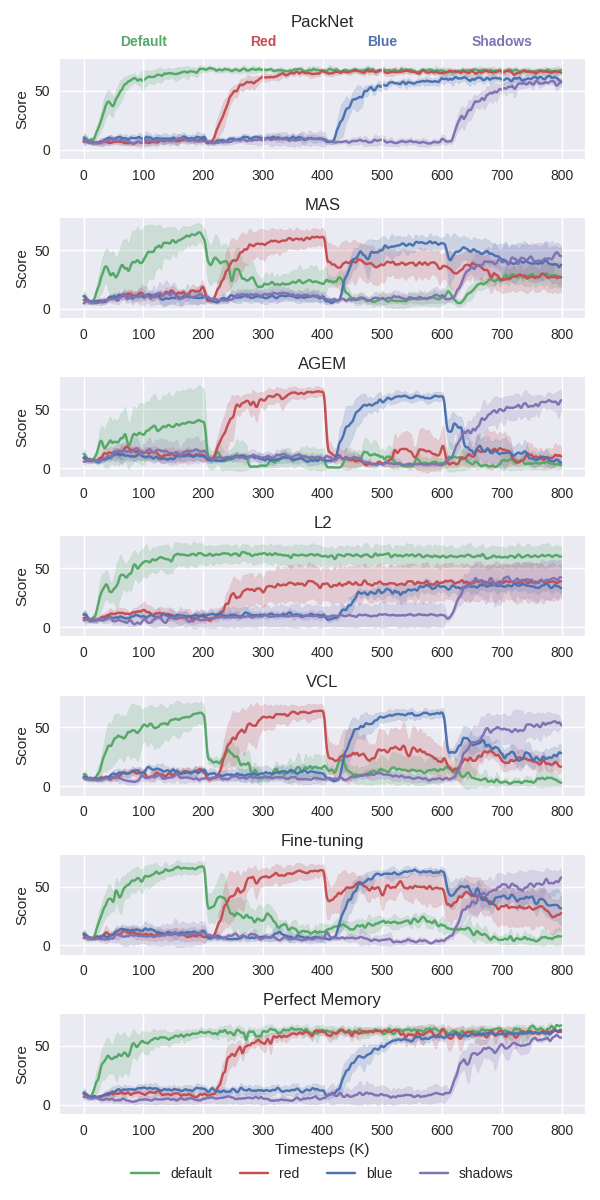
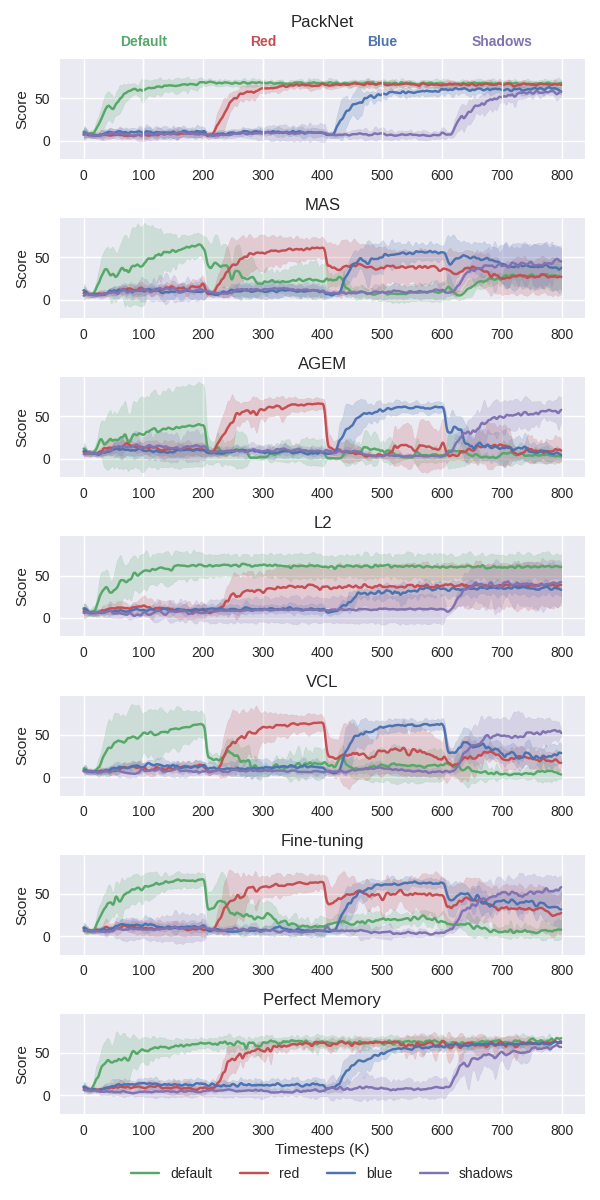
Fixed CI calculation

diff --git a/coom/sac/sac.py b/coom/sac/sac.py
@@ -1,3 +1,7 @@
+from threading import Thread
+
+import functools
+
 import math
 import numpy as np
 import os
@@ -154,9 +158,7 @@ class SAC:
         self.experiment_dir = experiment_dir
         self.model_path = model_path
         self.timestamp = timestamp
-
-        self.test_threads_deterministic = []
-        self.test_threads_stochastic = []
+        self.test_threads = []
 
         self.use_popart = critic_cl is PopArtMlpCritic
 
@@ -442,36 +444,67 @@ class SAC:
         ):
             target_v.assign(self.polyak * target_v + (1 - self.polyak) * v)
 
-    def test_agent(self, deterministic, num_episodes) -> None:
+    def test_agent(self, seq_idx, test_env, deterministic, num_episodes) -> None:
+        start_time = time.time()
         mode = "deterministic" if deterministic else "stochastic"
-        for seq_idx, test_env in enumerate(self.test_envs):
-            start_time = time.time()
-            key_prefix = f"test/{mode}/{seq_idx}/{test_env.name}"
-            one_hot_vec = create_one_hot_vec(test_env.num_tasks, test_env.task_id)
+        key_prefix = f"test/{mode}/{seq_idx}/{test_env.name}"
+        one_hot_vec = create_one_hot_vec(test_env.num_tasks, test_env.task_id)
 
-            self.on_test_start(seq_idx)
+        self.on_test_start(seq_idx)
 
-            for j in range(num_episodes):
-                obs, _ = test_env.reset()
-                done, episode_return, episode_len = False, 0, 0
-                while not done:
-                    obs, reward, done, _, _ = test_env.step(
-                        self.get_action_test(tf.convert_to_tensor(obs),
-                                             tf.convert_to_tensor(one_hot_vec, dtype=tf.dtypes.float32),
-                                             tf.constant(deterministic))
-                    )
-                    episode_return += reward
-                    episode_len += 1
-                self.logger.store({key_prefix + "/return": episode_return, key_prefix + "/ep_length": episode_len})
-                self.logger.store(test_env.get_statistics(key_prefix))
+        for j in range(num_episodes):
+            obs, _ = test_env.reset()
+            done, episode_return, episode_len = False, 0, 0
+            while not done:
+                obs, reward, done, _, _ = test_env.step(
+                    self.get_action_test(tf.convert_to_tensor(obs),
+                                         tf.convert_to_tensor(one_hot_vec, dtype=tf.dtypes.float32),
+                                         tf.constant(deterministic))
+                )
+                episode_return += reward
+                episode_len += 1
+            self.logger.store({key_prefix + "/return": episode_return, key_prefix + "/ep_length": episode_len})
+            self.logger.store(test_env.get_statistics(key_prefix))
 
-            self.on_test_end(seq_idx)
-            print(f"Finished testing {key_prefix} in {time.time() - start_time:.2f} seconds")
+        print(f"Finished testing {key_prefix} in {time.time() - start_time:.2f} seconds")
 
-            self.logger.log_tabular(key_prefix + "/return", with_min_and_max=True)
-            self.logger.log_tabular(key_prefix + "/ep_length", average_only=True)
-            for stat in test_env.get_statistics(key_prefix).keys():
-                self.logger.log_tabular(stat, average_only=True)
+        self.on_test_end(seq_idx)
+
+        self.logger.log_tabular(key_prefix + "/return", with_min_and_max=True)
+        self.logger.log_tabular(key_prefix + "/ep_length", average_only=True)
+        for stat in test_env.get_statistics(key_prefix).keys():
+            self.logger.log_tabular(stat, average_only=True)
+
+    # def test_agent(self, deterministic, num_episodes) -> None:
+    #     start_time = time.time()
+    #     mode = "deterministic" if deterministic else "stochastic"
+    #     for seq_idx, test_env in enumerate(self.test_envs):
+    #         key_prefix = f"test/{mode}/{seq_idx}/{test_env.name}"
+    #         one_hot_vec = create_one_hot_vec(test_env.num_tasks, test_env.task_id)
+    #
+    #         self.on_test_start(seq_idx)
+    #
+    #         for j in range(num_episodes):
+    #             obs, _ = test_env.reset()
+    #             done, episode_return, episode_len = False, 0, 0
+    #             while not done:
+    #                 obs, reward, done, _, _ = test_env.step(
+    #                     self.get_action_test(tf.convert_to_tensor(obs),
+    #                                          tf.convert_to_tensor(one_hot_vec, dtype=tf.dtypes.float32),
+    #                                          tf.constant(deterministic))
+    #                 )
+    #                 episode_return += reward
+    #                 episode_len += 1
+    #             self.logger.store({key_prefix + "/return": episode_return, key_prefix + "/ep_length": episode_len})
+    #             self.logger.store(test_env.get_statistics(key_prefix))
+    #
+    #         self.on_test_end(seq_idx)
+    #         print(f"Finished testing {key_prefix} in {time.time() - start_time:.2f} seconds")
+    #
+    #         self.logger.log_tabular(key_prefix + "/return", with_min_and_max=True)
+    #         self.logger.log_tabular(key_prefix + "/ep_length", average_only=True)
+    #         for stat in test_env.get_statistics(key_prefix).keys():
+    #             self.logger.log_tabular(stat, average_only=True)
 
     def _log_after_update(self, results):
         self.logger.store(
@@ -694,31 +727,27 @@ class SAC:
 
                 # Test the model on each task in a separate thread
                 test_start_time = time.time()
-                # for thread in self.test_threads_stochastic + self.test_threads_deterministic:
-                #     if thread.is_alive():
-                #         print(f'Thread {thread}({thread._target.args[1].unwrapped.name}) is still alive. Joining it.')
-                #         thread.join()
+                for thread in self.test_threads:
+                    if thread.is_alive():
+                        print(f'Thread {thread}({thread._target.args[1].unwrapped.name}) is still alive. Joining it.')
+                        thread.join()
 
-                # print("Creating new testing threads after: ", time.time() - test_start_time)
-
-                # Test the performance of stochastic and deterministic version of the agent.
-                # self.test_threads_stochastic = [
-                #     Thread(target=functools.partial(self.test_agent, seq_idx, test_env, False,
-                #                                     self.num_test_eps_stochastic)) for seq_idx, test_env in
-                #     enumerate(self.test_envs_stoch)]
-                #
-                # self.test_threads_deterministic = [
-                #     Thread(target=functools.partial(self.test_agent, seq_idx, test_env, True,
-                #                                     self.num_test_eps_deterministic)) for seq_idx, test_env in
-                #     enumerate(self.test_envs_det)]
-                #
-                # for test_thread in self.test_threads_stochastic + self.test_threads_deterministic:
-                #     test_thread.start()
+                print("Creating new testing threads after: ", time.time() - test_start_time)
 
                 # Test the performance of stochastic and deterministic version of the agent.
-                if self.test:
-                    self.test_agent(deterministic=False, num_episodes=self.num_test_eps_stochastic)
-                    print("Time elapsed for the testing procedure: ", time.time() - test_start_time)
+                self.test_threads = [
+                    Thread(target=functools.partial(self.test_agent, seq_idx, test_env, False,
+                                                    self.num_test_eps_stochastic)) for seq_idx, test_env in
+                    enumerate(self.test_envs)]
+
+                for test_thread in self.test_threads:
+                    test_thread.start()
+                print("Time elapsed for the testing procedure: ", time.time() - test_start_time)
+
+                # Test the performance of stochastic and deterministic version of the agent.
+                # if self.test:
+                #     self.test_agent(deterministic=False, num_episodes=self.num_test_eps_stochastic)
+                #     print("Time elapsed for the testing procedure: ", time.time() - test_start_time)
 
                 # Determine the current learning rate of the optimizer
                 lr = self.optimizer.lr

diff --git a/experiments/results/cl_metrics.py b/experiments/results/cl_metrics.py
@@ -1,5 +1,6 @@
-from typing import Dict
+from typing import Dict, List
 
+from scipy.stats import t
 import os
 
 import json
@@ -183,11 +184,14 @@ def calculate_forgetting(data: np.ndarray):
     return data_at_the_end, forgetting
 
 
-def main(args: argparse.Namespace) -> None:
-    seeds = ['1', '2', '3']
-    sequence = args.sequence
-    metric = args.metric
-    task_length = args.task_length
+def calculate_performance(data: np.ndarray):
+    data = data.mean(axis=3)
+    data = np.triu(data)
+    data[data == 0] = np.nan
+    return np.nanmean(data, axis=(-1, -2))
+
+
+def calc_metrics(metric, seeds, sequence, task_length):
     envs = SEQUENCES[sequence]
     n_envs = len(envs)
     iterations = n_envs * task_length
@@ -196,6 +200,8 @@ def main(args: argparse.Namespace) -> None:
     ci_data = np.empty((len(methods), n_envs, n_envs, task_length))
     cl_data[:] = np.nan
     ci_data[:] = np.nan
+    dof = len(seeds) - 1
+    significance = (1 - args.confidence) / 2
     for i, method in enumerate(methods):
         for j, env in enumerate(envs):
             seed_data = np.empty((len(seeds), n_envs, task_length))
@@ -210,29 +216,54 @@ def main(args: argparse.Namespace) -> None:
                 data = np.pad(data, (0, iterations - steps), 'constant', constant_values=np.nan)
                 data_per_task = np.array_split(data, n_envs)
                 seed_data[k] = data_per_task
-                # print(f'{method}_{env}_{seed}: {len(steps)}')
 
-            y = np.nanmean(seed_data, axis=0)
-            ci = np.nanstd(seed_data, axis=0)
-            cl_data[i][j] = y
+            mean = np.nanmean(seed_data, axis=0)
+            std = np.nanstd(seed_data, axis=0)
+            t_crit = np.abs(t.ppf(significance, dof))
+            ci = std * t_crit / np.sqrt(len(seeds))
+            cl_data[i][j] = mean
             ci_data[i][j] = ci
+    performance = calculate_performance(cl_data)
+    performance_ci = calculate_performance(ci_data)
     data_at_the_end, forgetting = calculate_forgetting(cl_data)
-    _, ci_forget = calculate_forgetting(ci_data)
-    # Join mean and std and normalize results
-    joined_results = np.array((forgetting, ci_forget))
-    joined_results = joined_results / np.linalg.norm(joined_results)
-    # Print results
+    _, forgetting_ci = calculate_forgetting(ci_data)
+    # Print performance results
+    print(f'\n\n{sequence}')
+    print_results(performance, performance_ci, methods, "Performance")
+    print_results(forgetting, forgetting_ci, methods, "Forgetting")
+
+    return performance, performance_ci, forgetting, forgetting_ci
+
+
+def print_results(metric_data: np.ndarray, ci: np.ndarray, methods: List[str], metric: str):
+    print(f'\n{"Method":<20}{metric:<20}{"CI":<20}')
     for i, method in enumerate(methods):
-        forget = joined_results[0][i]
-        ci = joined_results[1][i]
-        print(f'{method}: {forget :.2f} ({ci :.2f})')
+        print(f'{method:<20}{metric_data[i]:<20.2f}{ci[i]:.2f}')
+
+
+def normalize(metric_data, ci):
+    joined_results = np.array((metric_data, ci))
+    joined_results = joined_results / np.linalg.norm(joined_results)
+    return joined_results
+
+
+def main(cfg: argparse.Namespace) -> None:
+    performances, forgets = [], []
+    for sequence in cfg.sequences:
+        performance, forget = calc_metrics(cfg.metric, cfg.seeds, sequence, cfg.task_length)
+        performances.append(performance)
+        forgets.append(forget)
+    print(f'\n\nAverage')
+    print(f'\n{"Method":<20}{"Performance":<20}{"CI":<20}')
 
 
 def parse_args() -> argparse.Namespace:
     parser = argparse.ArgumentParser()
-    parser.add_argument("--sequence", type=str, required=True, choices=['CD4', 'CO4', 'CD8', 'CO8'],
-                        help="Name of the task sequence")
+    parser.add_argument("--sequences", type=str, nargs="+", required=True, choices=['CD4', 'CO4', 'CD8', 'CO8', 'COC'],
+                        help="Sequences to evaluate")
+    parser.add_argument("--seeds", type=str, nargs="+", default=['1', '2', '3'], help="Seeds to evaluate")
     parser.add_argument("--metric", type=str, default='success', help="Name of the metric to calculate forgetting")
+    parser.add_argument("--confidence", type=float, default=0.9, help="Confidence interval")
     parser.add_argument("--task_length", type=int, default=200, help="Number of iterations x 1000 per task")
     parser.add_argument("--output_path", type=str, default="results")
     return parser.parse_args()

diff --git a/experiments/results/plot_results_methods.py b/experiments/results/plot_results_methods.py
@@ -4,6 +4,7 @@ import numpy as np
 import os
 from matplotlib import pyplot as plt
 from scipy.ndimage import gaussian_filter1d
+from scipy.stats import t
 
 TRANSLATIONS = {
     'packnet': 'PackNet',
@@ -54,16 +55,18 @@ def main(args: argparse.Namespace) -> None:
     colors = COLORS_DEFAULT if args.sequence in ['CO4', 'CO8'] else COLORS_ENVS
     seeds = ['1', '2', '3']
     cl_data = {}
-    methods = METHODS if args.sequence in ['CO4', 'CD4'] else METHODS[:-1]
     sequence = args.sequence
     metric = args.metric
     envs = SEQUENCES[sequence]
     n_envs = len(envs)
+    methods = METHODS if n_envs == 4 else METHODS[:-1]
     figsize = (6, 12) if n_envs == 4 else (9, 13)
     fig, ax = plt.subplots(len(methods), 1, sharey=True, sharex=True, figsize=figsize)
     env_names = [TRANSLATIONS[e] for e in envs]
     max_steps = -np.inf
-    iterations = 800 if sequence in ['CD4', 'CO4'] else 1600
+    iterations = args.task_length * n_envs
+    dof = len(seeds) - 1
+    significance = (1 - args.confidence) / 2
 
     for i, method in enumerate(methods):
         for j, env in enumerate(envs):
@@ -75,22 +78,22 @@ def main(args: argparse.Namespace) -> None:
                     continue
                 with open(path, 'r') as f:
                     data = json.load(f)
-                # max_steps = max(max_steps, len(data))
                 cl_data[f'{method}_{env}'] = data
                 steps = len(data)
                 max_steps = max(max_steps, steps)
                 seed_data[k, np.arange(steps)] = data
-                # print(f'{method}_{env}_{seed}: {len(steps)}')
 
-            y = np.nanmean(seed_data, axis=0)
-            y = gaussian_filter1d(y, sigma=2)
-            ci = np.nanstd(seed_data, axis=0)
-            ci = gaussian_filter1d(ci, sigma=2)
-            ax[i].plot(y, label=env, color=colors[j])
-            # ax[i].plot(y, label=env)
+            mean = np.nanmean(seed_data, axis=0)
+            mean = gaussian_filter1d(mean, sigma=2)
+            std = np.nanstd(seed_data, axis=0)
+            std = gaussian_filter1d(std, sigma=2)
+
+            t_crit = np.abs(t.ppf(significance, dof))
+            ci = std * t_crit / np.sqrt(len(seeds))
+
+            ax[i].plot(mean, label=env, color=colors[j])
             ax[i].tick_params(labelbottom=True)
-            ax[i].fill_between(np.arange(iterations), y - ci, y + ci, alpha=0.2, color=colors[j])
-            # print(f'{method}_{env} nan count: {np.isnan(y).sum()}')
+            ax[i].fill_between(np.arange(iterations), mean - ci, mean + ci, alpha=0.2, color=colors[j])
 
         ax[i].set_ylabel(TRANSLATIONS[metric])
         ax[i].set_title(TRANSLATIONS[method])
@@ -125,6 +128,8 @@ def parse_args() -> argparse.Namespace:
     parser.add_argument("--sequence", type=str, required=True, choices=['CD4', 'CO4', 'CD8', 'CO8'],
                         help="Name of the task sequence")
     parser.add_argument("--metric", type=str, default='success', help="Name of the metric to plot")
+    parser.add_argument("--confidence", type=float, default=0.9, help="Confidence interval")
+    parser.add_argument("--task_length", type=int, default=200, help="Number of iterations x 1000 per task")
     parser.add_argument("--output_path", type=str, default="results")
     return parser.parse_args()
 

diff --git a/experiments/results/plot_results_envs.py b/experiments/results/plot_results_envs.py
@@ -4,6 +4,7 @@ import numpy as np
 import os
 from matplotlib import pyplot as plt
 from scipy.ndimage import gaussian_filter1d
+from scipy.stats import t
 
 TRANSLATIONS = {
     'packnet': 'PackNet',
@@ -75,8 +76,10 @@ def main(args: argparse.Namespace) -> None:
     figsize = (6, 7) if n_envs == 4 else (7, 13)
     fig, ax = plt.subplots(n_envs, 1, sharex=True, figsize=figsize)
     max_steps = -np.inf
-    iterations = 800 if n_envs == 4 else 1600
+    iterations = args.task_length * n_envs
     methods = METHODS if n_envs == 4 else METHODS[:-1]
+    dof = len(seeds) - 1
+    significance = (1 - args.confidence) / 2
 
     for i, env in enumerate(envs):
         for j, method in enumerate(methods):
@@ -96,14 +99,17 @@ def main(args: argparse.Namespace) -> None:
                 seed_data[k, np.arange(steps)] = data
                 # print(f'{method}_{env}_{seed}: {len(steps)}')
 
-            y = np.nanmean(seed_data, axis=0)
-            y = gaussian_filter1d(y, sigma=2)
-            ci = np.nanstd(seed_data, axis=0)
-            ci = gaussian_filter1d(ci, sigma=2)
-            ax[i].plot(y, label=TRANSLATIONS[method], color=PLOT_COLORS[j])
+            mean = np.nanmean(seed_data, axis=0)
+            mean = gaussian_filter1d(mean, sigma=2)
+            std = np.nanstd(seed_data, axis=0)
+            std = gaussian_filter1d(std, sigma=2)
+
+            t_crit = np.abs(t.ppf(significance, dof))
+            ci = std * t_crit / np.sqrt(len(seeds))
+
+            ax[i].plot(mean, label=TRANSLATIONS[method], color=PLOT_COLORS[j])
             ax[i].tick_params(labelbottom=True)
-            ax[i].fill_between(np.arange(iterations), y - ci, y + ci, alpha=0.2, color=PLOT_COLORS[j])
-            # print(f'{method}_{env} nan count: {np.isnan(y).sum()}')
+            ax[i].fill_between(np.arange(iterations), mean - ci, mean + ci, alpha=0.2, color=PLOT_COLORS[j])
 
         ax[i].set_ylabel(TRANSLATIONS[metric])
         ax[i].set_title(TRANSLATIONS[env])
@@ -135,6 +141,8 @@ def parse_args() -> argparse.Namespace:
     parser.add_argument("--sequence", type=str, required=True, choices=['CD4', 'CO4', 'CD8', 'CO8'],
                         help="Name of the task sequence")
     parser.add_argument("--metric", type=str, default=None, help="Name of the metric to plot")
+    parser.add_argument("--confidence", type=float, default=0.9, help="Confidence interval")
+    parser.add_argument("--task_length", type=int, default=200, help="Number of iterations x 1000 per task")
     parser.add_argument("--output_path", type=str, default="results")
     return parser.parse_args()
 
